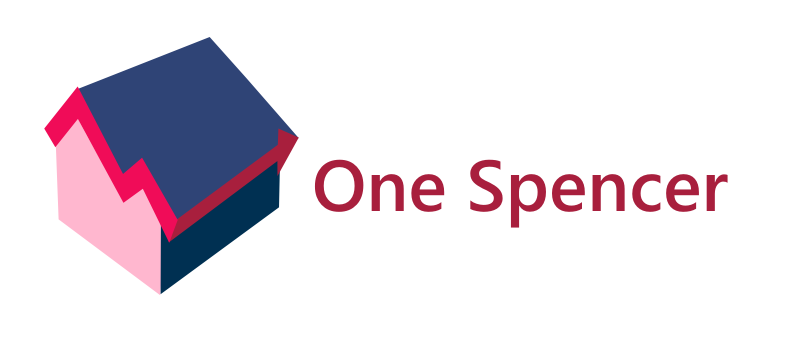
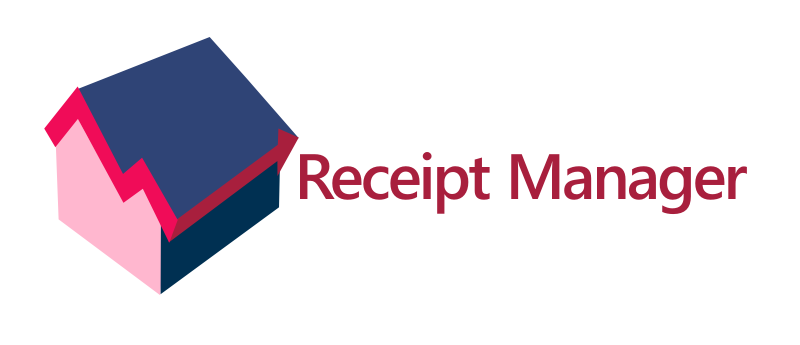
No Commit Message

Changed region(s): [[0.375, 0.4348, 0.9375, 0.6667]]

diff --git a/src/main/java/matrodriguezpa/receiptmanager/view/View.java b/src/main/java/matrodriguezpa/receiptmanager/view/View.java
@@ -1,4 +1,4 @@
-package matrodriguezpa.allexpence.view;
+package matrodriguezpa.receiptmanager.view;
 
 import javax.swing.*;
 import javax.swing.SwingUtilities;
@@ -245,7 +245,7 @@ public class View extends javax.swing.JFrame {
         addExpenseButtonGroup = new javax.swing.ButtonGroup();
         About = new javax.swing.JPanel();
         GitHub = new javax.swing.JLabel();
-        Copyrigth = new javax.swing.JLabel();
+        Author = new javax.swing.JLabel();
         NewYear = new javax.swing.JPanel();
         addWorkbookLabel3 = new javax.swing.JLabel();
         addNewYearProjectName = new javax.swing.JLabel();
@@ -375,32 +375,13 @@ public class View extends javax.swing.JFrame {
         });
         expenseDataLoader.add(newExpenseData);
 
-        GitHub.setText("matrodriguezpa on Github");
+        About.setLayout(new java.awt.GridLayout(0, 1));
 
-        Copyrigth.setText("All expencer copygith");
+        GitHub.setText("Created by:");
+        About.add(GitHub);
 
-        javax.swing.GroupLayout AboutLayout = new javax.swing.GroupLayout(About);
-        About.setLayout(AboutLayout);
-        AboutLayout.setHorizontalGroup(
-            AboutLayout.createParallelGroup(javax.swing.GroupLayout.Alignment.LEADING)
-            .addGroup(javax.swing.GroupLayout.Alignment.TRAILING, AboutLayout.createSequentialGroup()
-                .addContainerGap(59, Short.MAX_VALUE)
-                .addComponent(GitHub)
-                .addGap(56, 56, 56))
-            .addGroup(AboutLayout.createSequentialGroup()
-                .addGap(67, 67, 67)
-                .addComponent(Copyrigth)
-                .addContainerGap(javax.swing.GroupLayout.DEFAULT_SIZE, Short.MAX_VALUE))
-        );
-        AboutLayout.setVerticalGroup(
-            AboutLayout.createParallelGroup(javax.swing.GroupLayout.Alignment.LEADING)
-            .addGroup(AboutLayout.createSequentialGroup()
-                .addGap(26, 26, 26)
-                .addComponent(GitHub)
-                .addGap(44, 44, 44)
-                .addComponent(Copyrigth)
-                .addContainerGap(85, Short.MAX_VALUE))
-        );
+        Author.setText("matrodriguezpa on Github");
+        About.add(Author);
 
         NewYear.setLayout(new javax.swing.BoxLayout(NewYear, javax.swing.BoxLayout.Y_AXIS));
 
@@ -805,7 +786,7 @@ public class View extends javax.swing.JFrame {
     // Variables declaration - do not modify//GEN-BEGIN:variables
     private javax.swing.JPanel About;
     private javax.swing.JLabel Amount;
-    private javax.swing.JLabel Copyrigth;
+    private javax.swing.JLabel Author;
     private javax.swing.JPanel CreateNewMonth;
     private javax.swing.JLabel Date;
     private javax.swing.JLabel GitHub;

diff --git a/src/main/java/matrodriguezpa/receiptmanager/controller/Controller.java b/src/main/java/matrodriguezpa/receiptmanager/controller/Controller.java
@@ -1,7 +1,7 @@
-package matrodriguezpa.allexpence.controller;
+package matrodriguezpa.receiptmanager.controller;
 
-import matrodriguezpa.allexpence.model.model;
-import matrodriguezpa.allexpence.view.View;
+import matrodriguezpa.receiptmanager.model.Model;
+import matrodriguezpa.receiptmanager.view.View;
 
 import javax.swing.*;
 import javax.swing.table.DefaultTableModel;
@@ -24,7 +24,7 @@ import java.util.logging.Logger;
 
 public class Controller {
 
-    private final model model;
+    private final Model model;
     private final View view;
 
     private String projectName;
@@ -35,7 +35,7 @@ public class Controller {
     private DefaultTreeModel treeModel;
 
     /*Constructor*/
-    public Controller(model model, View view) {
+    public Controller(Model model, View view) {
         this.model = model;
         this.view = view;
         initController();
@@ -148,7 +148,7 @@ public class Controller {
         } catch (SQLException e) {
             JOptionPane.showMessageDialog(view, "Error creating the project: " + e.getMessage());
         }
-    }//insert a new model on the model list table
+    }//insert a new Model on the Model list table
 
     private void insertNewMonth(int monthNumber, String projectName) {
         if (monthNumber < 1 || monthNumber > 12) {
@@ -286,7 +286,7 @@ public class Controller {
                 String projectNamelist = resul.getString(1);
                 String projectYearlist = resul.getString(2);
 
-                // Create a new panel for each model-year entry
+                // Create a new panel for each Model-year entry
                 if (projectNamelist.equals(projectName)) {
                     JPanel panelButtonList = new JPanel();
 
@@ -714,7 +714,7 @@ public class Controller {
 
     private void openJavaDoc() {
         try {
-            Desktop.getDesktop().browse(new URI("https://www.openai.com"));
+            Desktop.getDesktop().browse(new URI("https://matrodriguezpa.github.io/receipt-manager/javadoc/code-docs"));
         } catch (IOException | URISyntaxException ex) {
             System.out.println("Error abriendo link");
         }
@@ -722,7 +722,7 @@ public class Controller {
 
     private void openDocumentation() {
         try {
-            Desktop.getDesktop().browse(new URI("https://www.openai.com"));
+            Desktop.getDesktop().browse(new URI("https://matrodriguezpa.github.io/receipt-manager/userguide/user-guide"));
         } catch (IOException | URISyntaxException ex) {
             System.out.println("Error abriendo link");
         }

diff --git a/src/main/java/matrodriguezpa/receiptmanager/model/model.java b/src/main/java/matrodriguezpa/receiptmanager/model/model.java
@@ -1,4 +1,4 @@
-package matrodriguezpa.allexpence.model;
+package matrodriguezpa.receiptmanager.model;
 
 import java.io.IOException;
 import java.nio.file.Path;
@@ -9,7 +9,7 @@ import java.sql.PreparedStatement;
 import java.sql.ResultSet;
 import java.sql.SQLException;
 
-public class model {
+public class Model {
 
     // Construct the URL to the SQLite database in the user's Documents directory
     private final String url = constructDatabaseUrl();
@@ -21,7 +21,7 @@ public class model {
         String userHome = System.getProperty("user.home");
 
         // Construct the path to the OneSpencer directory within Documents
-        Path documentsPath = Paths.get(userHome, "Documents", "OneSpencer", "Database.db");
+        Path documentsPath = Paths.get(userHome, "Documents", "ReceiptManager", "Database.db");
 
         // Check if the path exists (optional)
         if (!documentsPath.toFile().exists()) {

diff --git a/src/main/java/matrodriguezpa/receiptmanager/ReceiptManager.java b/src/main/java/matrodriguezpa/receiptmanager/ReceiptManager.java
@@ -1,0 +1,17 @@
+package matrodriguezpa.receiptmanager;
+
+import matrodriguezpa.receiptmanager.controller.Controller;
+import matrodriguezpa.receiptmanager.model.Model;
+import matrodriguezpa.receiptmanager.view.View;
+
+public class ReceiptManager {
+
+    public static void main(String[] args) {
+        
+        Model model = new Model();
+        View view = new View();
+        Controller controller = new Controller(model, view);
+        
+        controller.start();
+    }
+}
